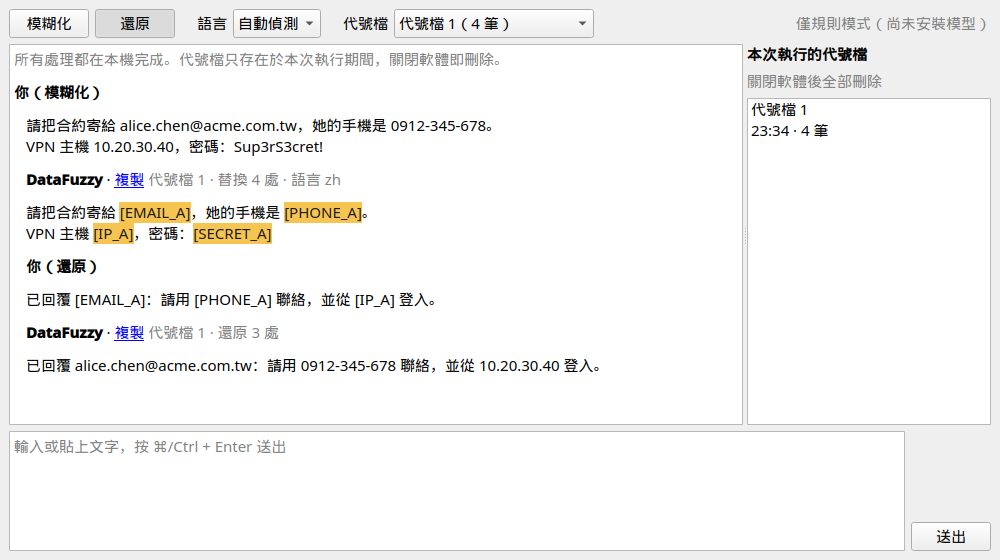
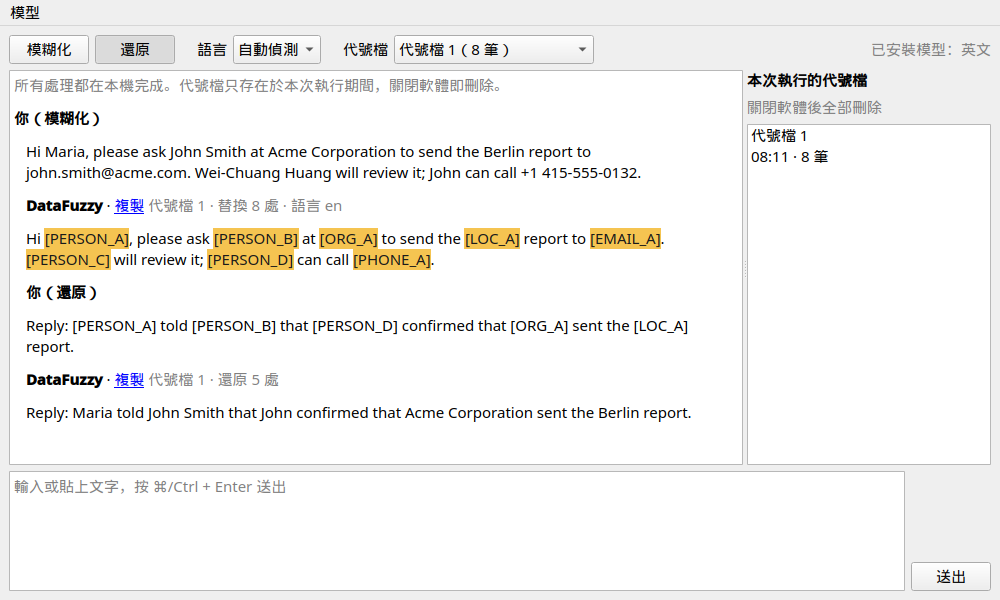
docs: document model download and name detection

diff --git a/README.md b/README.md
@@ -17,12 +17,16 @@
 - 🏷 **可還原的代號** — `alice@acme.com` → `[EMAIL_A]`；同一個值永遠是同一個代號
 - 🔁 **跨文本還原** — 貼回任何含代號的新文字，選擇代號檔即可換回原文
 - 🧹 **關閉即刪除** — 代號檔加密暫存，軟體關閉（或被中止）時全部刪除
-- 🌏 **中英文** — 自動偵測語言；NER 模型支援規劃中（見 [Roadmap](#-roadmap)）
+- 🧠 **名稱辨識** — 本機 NER 模型辨識人名、組織、地點；同一名稱在全文與後續輸入都換成同一代號
+- 🌏 **中英文** — 自動偵測語言；目前提供英文模型，中文模型規劃中（見 [Roadmap](#-roadmap)）
 
 目前可偵測：
 
 | 類別 | 代號 | 範例 |
 |---|---|---|
+| 人名 | `PERSON` | `John Smith`、`Wei-Chuang Huang`（需安裝模型） |
+| 組織 | `ORG` | `Acme Corporation`（需安裝模型） |
+| 地點 | `LOC` | `Berlin`、`San Francisco`（需安裝模型） |
 | Email | `EMAIL` | `bob@corp.io` |
 | 電話 | `PHONE` | `0912-345-678`、`+886 912 345 678`、`(02) 2345-6789` |
 | 身分證字號 | `TWID` | `A123456789`（驗證檢查碼） |
@@ -42,27 +46,42 @@ uv sync
 uv run datafuzzy
 ```
 
+**第一次啟動**會跳出「模型管理」，按 **下載** 取得英文模型（約 110 MB，只需一次）。之後可從選單 **模型 → 模型管理…** 新增或刪除。不下載也能用，只是人名等名稱不會被替換。
+
+![模型管理](docs/assets/model-manager.png)
+
+| 環境變數 | 用途 | 預設 |
+|---|---|---|
+| `DATAFUZZY_MODELS_DIR` | 模型存放位置 | macOS `~/Library/Application Support/DataFuzzy/models`<br>Linux `~/.local/share/DataFuzzy/models` |
+
 > Mac 安裝檔（`.dmg`）將於 0.5.0 提供。
 
 ## 📖 使用方式
 
 1. **模糊化**：選「模糊化」→ 代號檔選「＋ 新代號檔」→ 貼上文字 → **⌘/Ctrl + Enter**
    ```
-   請把合約寄給 alice.chen@acme.com.tw，VPN 主機 10.20.30.40
-   → 請把合約寄給 [EMAIL_A]，VPN 主機 [IP_A]
+   Hi Maria, please ask John Smith at Acme Corporation to email john.smith@acme.com
+   → Hi [PERSON_A], please ask [PERSON_B] at [ORG_A] to email [EMAIL_A]
    ```
 2. **還原**：選「還原」→ 選要用的代號檔 → 貼上含代號的文字
    ```
-   已回覆 [EMAIL_A]，請從 [IP_A] 登入
-   → 已回覆 alice.chen@acme.com.tw，請從 10.20.30.40 登入
+   [PERSON_A] told [PERSON_B] that [ORG_A] approved it
+   → Maria told John Smith that Acme Corporation approved it
    ```
 3. 點回覆旁的 **複製** 即可取用結果。
 
 ## 🛡 隱私與安全
 
-- 所有偵測與替換都在本機執行，不連網
+- 所有偵測與替換都在本機執行；**唯一會連網的是你按下「下載模型」時**
+- 模型直接從 Hugging Face 原發佈者下載，鎖定固定版本並以 SHA-256 驗證
 - 代號檔存於系統暫存目錄 `datafuzzy-<pid>/`，以 **AES-256-GCM** 加密，金鑰只存在記憶體
 - 關閉視窗、`Ctrl+C`、`SIGTERM` 都會刪除代號檔；若程式被強制結束，下次啟動時自動清除殘留
+
+## ⚠ 已知限制
+
+- 英文模型區分大小寫：全小寫的名字（`john smith`）可能漏掉
+- 同一人的全名與簡稱會拿到不同代號（`John Smith` → `[PERSON_A]`、`John` → `[PERSON_C]`）
+- 產品名稱偶爾會被當成人名或組織而替換（寧可多遮，不要漏遮）
 
 ## 🏗 架構
 
@@ -70,10 +89,11 @@ uv run datafuzzy
 flowchart LR
     A[輸入文字] --> B{語言偵測}
     B --> C[規則偵測器<br/>regex]
-    B --> D[NER 模型<br/>規劃中]
+    B --> D[NER 模型<br/>ONNX Runtime]
     C --> E[合併重疊區段]
     D --> E
-    E --> F[代號對應<br/>Session]
+    E --> K[同名全文替換<br/>+ 已知名稱]
+    K --> F[代號對應<br/>Session]
     F --> G[模糊化文字]
     F <--> H[(加密代號檔<br/>關閉即刪)]
     I[含代號文字] --> F
@@ -83,17 +103,19 @@ flowchart LR
 ```
 src/datafuzzy/
 ├── core/            # 與 UI 無關的邏輯
-│   ├── detect/      # 偵測器（regex，之後加 NER）
+│   ├── detect/      # 偵測器：regex、NER（ONNX）
+│   ├── models/      # 模型清單、下載、驗證
 │   ├── mapping.py   # 代號產生與還原
 │   ├── store.py     # 加密暫存與清除
 │   └── pipeline.py  # 串接偵測與代號
-└── ui/              # PySide6 介面
+├── ui/              # PySide6 介面
+└── models_manifest.json  # 可下載的模型（網址、大小、SHA-256）
 ```
 
 ## 🗺 Roadmap
 
 - [x] 0.1 — 規則偵測、代號對應、加密暫存、對話介面
-- [ ] 0.2 — 模型下載管理 + 英文 NER（`dslim/bert-base-NER`）
+- [x] 0.2 — 模型下載管理 + 英文 NER（`dslim/bert-base-NER`）
 - [ ] 0.3 — 中文 NER（`ckiplab/bert-base-chinese-ner`）
 - [ ] 0.4 — 代號檔管理（命名、預覽、自動推薦）
 - [ ] 0.5 — Mac `.dmg` / Linux AppImage（不含模型，安裝後下載）
@@ -104,7 +126,10 @@ src/datafuzzy/
 uv sync                  # 安裝含開發工具的環境
 uv run pytest            # 執行測試
 tools/test_arm64.sh      # 在 arm64 + 8GB 限制的容器中測試（模擬 Apple Silicon）
+uv run tools/update_manifest.py  # 更新模型版本後重新產生 models_manifest.json
 ```
+
+模型相關測試需要本機有英文模型（在 App 內下載，或先跑 `tools/update_manifest.py`），否則會自動略過；CI 一定會下載並執行。
 
 - **Commit 格式：** `<type>: <description>`（英文），type 為 `feat` `fix` `docs` `style` `refactor` `perf` `test` `chore`
 - **版號：** `MAJOR.MINOR.PATCH` — 新功能測試通過升 MINOR，bug 修正升 PATCH；變更記錄於 [CHANGELOG](CHANGELOG.md)
@@ -113,4 +138,9 @@ tools/test_arm64.sh      # 在 arm64 + 8GB 限制的容器中測試（模擬 App
 
 本專案採用 [GPL-3.0](LICENSE)。
 
-規劃使用的模型：`dslim/bert-base-NER`（MIT）、`ckiplab/bert-base-chinese-ner`（GPL-3.0，© CKIP Lab）。
+| 模型 | 授權 | 下載來源（int8 ONNX） |
+|---|---|---|
+| [`dslim/bert-base-NER`](https://huggingface.co/dslim/bert-base-NER) | MIT | [`Xenova/bert-base-NER`](https://huggingface.co/Xenova/bert-base-NER) |
+| [`ckiplab/bert-base-chinese-ner`](https://huggingface.co/ckiplab/bert-base-chinese-ner)（規劃中） | GPL-3.0，© CKIP Lab | [`Xenova/bert-base-chinese-ner`](https://huggingface.co/Xenova/bert-base-chinese-ner) |
+
+模型不隨程式散布，由使用者在 App 內自行下載。

diff --git a/CHANGELOG.md b/CHANGELOG.md
@@ -3,6 +3,18 @@
 All notable changes to this project are documented here.
 Versions follow `MAJOR.MINOR.PATCH`: MINOR for tested new features, PATCH for bug fixes.
 
+## [Unreleased]
+
+### Added
+- English NER (`dslim/bert-base-NER`, int8 ONNX via ONNX Runtime) for **person, organization
+  and location names**, running fully on-device (~0.2 s load, ~270 MB RAM).
+- Every occurrence of a detected name is replaced, and names already in the code file are
+  replaced in later inputs even if the model misses them.
+- Model manager dialog: download (resumable, SHA-256 verified), delete, first-launch prompt.
+  The installer never contains models; downloads come from pinned Hugging Face revisions.
+- `DATAFUZZY_MODELS_DIR` to override the model location.
+- Inference runs off the UI thread.
+
 ## [0.1.0] - 2026-09-19
 
 ### Added
